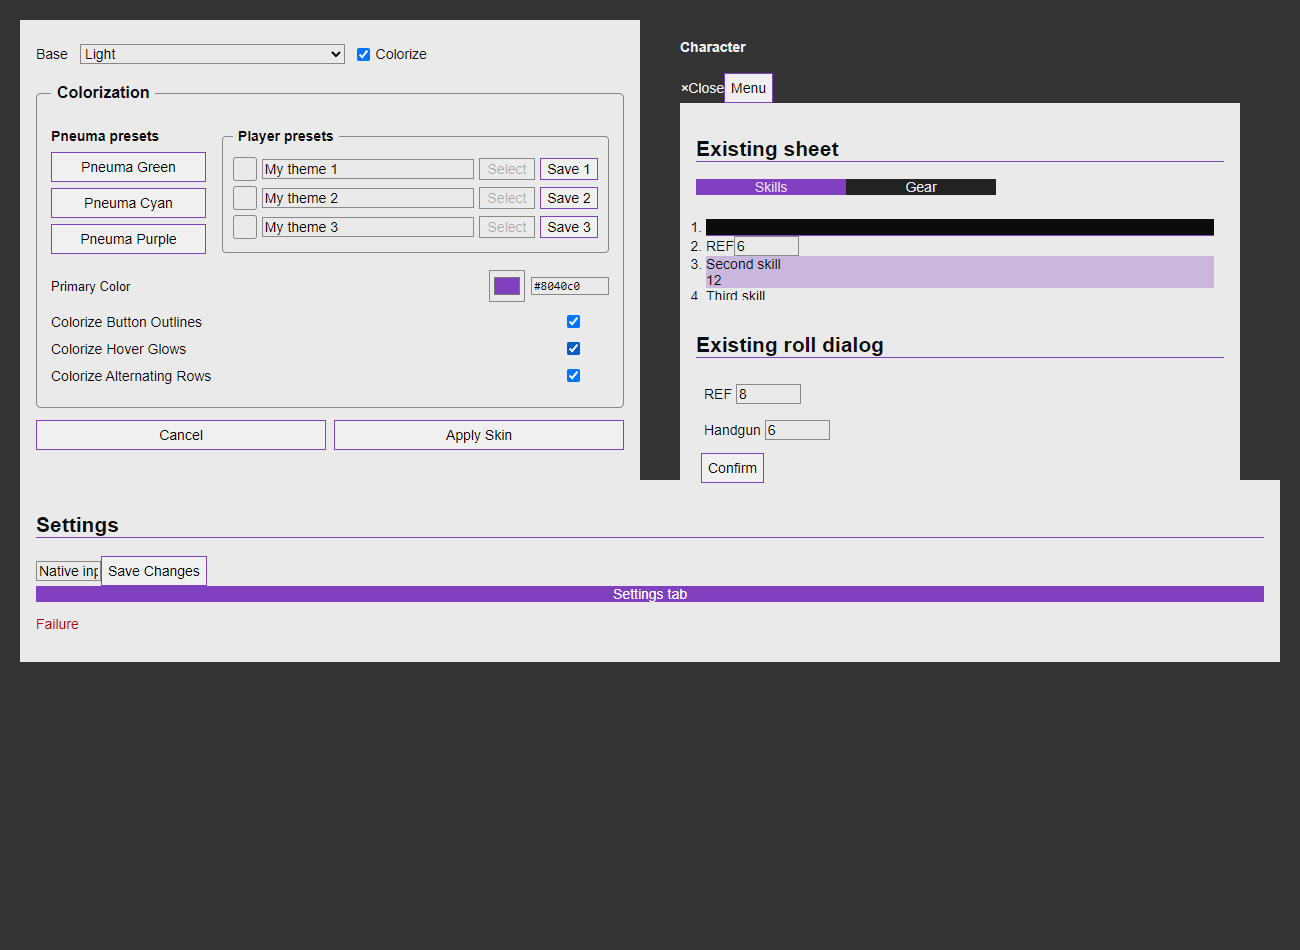
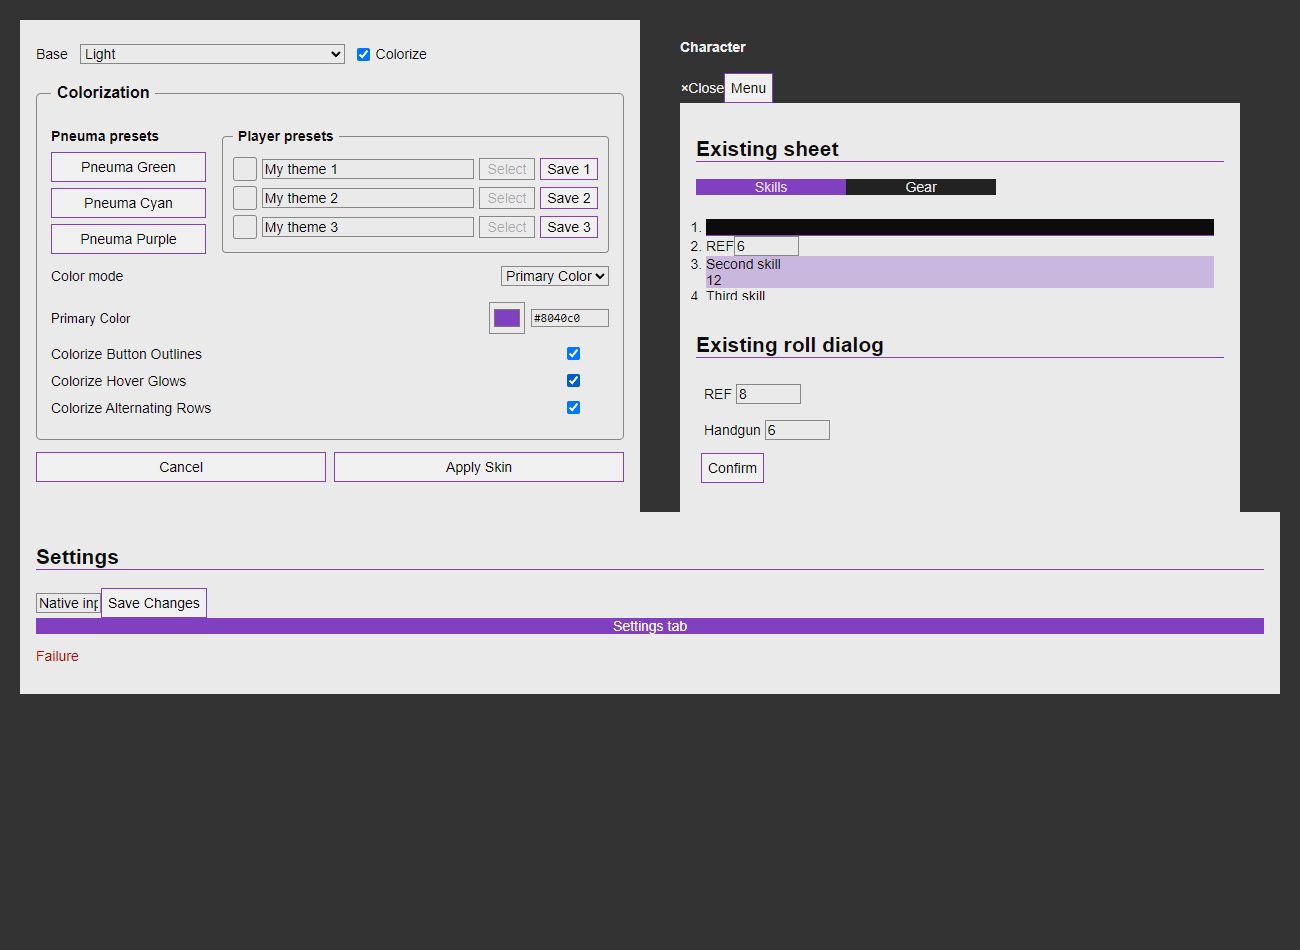
Release 0.10.1: restore independent Full Custom palettes

diff --git a/src/theme-customizer.ts b/src/theme-customizer.ts
@@ -1,5 +1,5 @@
 import {BASE_SKINS, baseMode, normalizeBase, baseVariables, adaptPalette, baseContrastWarnings} from './base-skins.js';
-import {DEFAULT_THEME, normalizeTheme, generatePalette, paletteVariables, type CustomTheme, type ThemeMode} from './theme-palette.js';
+import {COLOR_ROLES, DEFAULT_THEME, normalizeTheme, generatePalette, paletteVariables, type CustomTheme, type ThemeMode} from './theme-palette.js';
 import {PNEUMA_PRESETS,normalizePersonalPresets,type ThemePreset} from './theme-presets.js';
 declare global {interface SettingConfig {'pneuma-visualtools.customTheme': CustomTheme; 'pneuma-visualtools.visualSkinningEnabled': boolean}}
 declare global {interface FlagConfig {User:{'pneuma-visualtools':{themePresets:(ThemePreset|null)[]}}}}
@@ -26,6 +26,7 @@ export function applyCustomTheme(): void {
     if(nativeTheme!==undefined){if(nativeTheme===null)root.removeAttribute('data-cpr-theme');else root.setAttribute('data-cpr-theme',nativeTheme);nativeTheme=undefined;}
   }
   root.classList.toggle('pvt-custom-theme',theme.enabled);
+  root.classList.toggle('pvt-full-custom',theme.enabled && theme.method==='manual');
   root.classList.toggle('pvt-tinted-rows',theme.enabled && theme.tintRows);
   root.classList.toggle('pvt-colored-buttons',theme.enabled && theme.colorizeButtons);
   const writeStyle=(id:string,css:string):void=>{
@@ -43,8 +44,8 @@ export function applyCustomTheme(): void {
   writeStyle('pvt-base-palette',baseCSS?'html[data-pvt-base] '+scope+' {'+baseCSS+'}':'');
   activeMode=effectiveThemeMode(theme);
   const effectiveBase=base??(activeMode==='dark'?'default-dark':'default-light');
-  const palette=adaptPalette(theme[activeMode],effectiveBase);
-  writeStyle('pvt-custom-palette',theme.enabled?'html.pvt-custom-theme '+scope+' {'+declarations(paletteVariables(palette,activeMode,theme.tintRows,theme.colorizeGlows))+'}':'');
+  const palette=theme.method==='manual'?theme[activeMode]:adaptPalette(generatePalette(theme.seed,activeMode),effectiveBase);
+  writeStyle('pvt-custom-palette',theme.enabled?'html.pvt-custom-theme '+scope+' {'+declarations(paletteVariables(palette,activeMode,theme.tintRows,theme.colorizeGlows,theme.method==='manual'))+'}':'');
 
 }
 export class ThemeCustomizer extends FormApplication {
@@ -66,13 +67,15 @@ export class ThemeCustomizer extends FormApplication {
       hardTheme:this.draft.base==='pneuma-hub',colorEnabled:this.draft.base!=='pneuma-hub'&&this.draft.enabled,tintRows:this.draft.tintRows,colorizeButtons:this.draft.colorizeButtons,colorizeGlows:this.draft.colorizeGlows,
       bases:BASE_SKINS.map(b=>({...b,selected:b.id===(this.draft.base??(this.editing==='dark'?'default-dark':'default-light'))})),
       modes:[{id:'light',label:'Light'},{id:'dark',label:'Dark'}].map(m=>({...m,selected:m.id===this.editing})),
-      mainAccent:this.draft.seed,
+      mainAccent:this.draft.seed,manual:this.draft.method==='manual',
+      customPalettes:(['light','dark'] as const).map(mode=>({label:mode==='light'?'Light bases':'Dark bases',colors:COLOR_ROLES.map(role=>({...role,name:`custom-${mode}-${role.key}`,value:this.draft[mode][role.key]}))})),
       legacyActive:game.modules?.get('pneuma-green-theme')?.active,
       pneumaPresets:PNEUMA_PRESETS.map((preset,index)=>({index,name:preset.name})),
-      personalPresets:normalizePersonalPresets(game.user?.getFlag(MODULE,'themePresets')).map((preset,index)=>({index,slot:index+1,name:preset?.name||`My theme ${index+1}`,empty:!preset,accent:preset?.theme.seed??'transparent'})),
+      personalPresets:normalizePersonalPresets(game.user?.getFlag(MODULE,'themePresets')).map((preset,index)=>({index,slot:index+1,name:preset?.name||`My theme ${index+1}`,empty:!preset,accent:preset?(preset.theme.method==='manual'?preset.theme[effectiveThemeMode(this.draft)].main:preset.theme.seed):'transparent'})),
     };
   }
   private readDraft(root: HTMLElement): void {
+    this.readCustom(root);
     this.draft.colorizeButtons=root.querySelector<HTMLInputElement>('[name="colorizeButtons"]')?.checked===true;
     this.draft.colorizeGlows=root.querySelector<HTMLInputElement>('[name="colorizeGlows"]')?.checked===true;
     this.draft.tintRows=root.querySelector<HTMLInputElement>('[name="tintRows"]')?.checked === true;
@@ -81,8 +84,12 @@ export class ThemeCustomizer extends FormApplication {
     const primary=root.querySelector<HTMLInputElement>('[name="main"]')?.value;
     if(primary && /^#[0-9a-f]{6}$/i.test(primary)) {
       this.draft.seed=primary.toLowerCase();
-      this.draft.light=generatePalette(this.draft.seed,'light');
-      this.draft.dark=generatePalette(this.draft.seed,'dark');
+    }
+  }
+  private readCustom(root:HTMLElement):void {
+    for(const mode of ['light','dark'] as const) for(const {key} of COLOR_ROLES) {
+      const value=root.querySelector<HTMLInputElement>(`[name="custom-${mode}-${key}"]`)?.value;
+      if(value && /^#[0-9a-f]{6}$/i.test(value))this.draft[mode][key]=value.toLowerCase();
     }
   }
   private preview(root: HTMLElement): void {
@@ -90,7 +97,8 @@ export class ThemeCustomizer extends FormApplication {
     const base=this.draft.base??(this.editing==='dark'?'default-dark':'default-light');
     if(base==='pneuma-hub'){root.querySelector<HTMLElement>('[data-status]')!.textContent='Hub uses fixed colors.';return;}
     if(!this.draft.enabled){root.querySelector<HTMLElement>('[data-status]')!.textContent='';return;}
-    const warnings=baseContrastWarnings(adaptPalette(this.draft[this.editing],base),base,this.draft.tintRows);
+    const palette=this.draft.method==='manual'?this.draft[this.editing]:adaptPalette(generatePalette(this.draft.seed,this.editing),base);
+    const warnings=baseContrastWarnings(palette,base,this.draft.tintRows);
     const status=root.querySelector<HTMLElement>('[data-status]')!;
     status.textContent=warnings.length ? `Low contrast: ${warnings.join('; ')}. Adjust these colors if text or controls are hard to read.` : '';
   }
@@ -98,13 +106,18 @@ export class ThemeCustomizer extends FormApplication {
     super.activateListeners(html);
     const root=html[0]; if (!root) return;
     this.preview(root);
+    root.querySelector<HTMLSelectElement>('[name="method"]')?.addEventListener('change',()=>{
+      this.readDraft(root);
+      this.draft.method=root.querySelector<HTMLSelectElement>('[name="method"]')!.value==='manual'?'manual':'simple';
+      this.render(false);
+    });
     root.querySelectorAll('[name="tintRows"],[name="colorizeButtons"],[name="colorizeGlows"]').forEach(input=>input.addEventListener('change',()=>{this.readDraft(root);this.preview(root);}));
     root.querySelector<HTMLInputElement>('[name="colorEnabled"]')?.addEventListener('change',()=>{this.readDraft(root);this.editing=effectiveThemeMode(this.draft);this.render(false);});
     root.querySelector<HTMLSelectElement>('[name="base"]')?.addEventListener('change',()=>{
       this.readDraft(root);this.editing=effectiveThemeMode(this.draft);this.render(false);
     });
     root.querySelectorAll<HTMLElement>('[data-pneuma-preset]').forEach(button=>button.addEventListener('click',()=>{
-      this.readDraft(root);const preset=PNEUMA_PRESETS[Number(button.dataset.pneumaPreset)];if(preset)this.loadPreset(preset.theme);
+      this.readDraft(root);const preset=PNEUMA_PRESETS[Number(button.dataset.pneumaPreset)];if(preset && this.draft.base!=='pneuma-hub'){this.draft.seed=preset.theme.seed;this.draft.method='simple';this.draft.enabled=true;this.render(false);}
     }));
     root.querySelectorAll<HTMLElement>('[data-load-preset]').forEach(button=>button.addEventListener('click',()=>{
       this.readDraft(root);const preset=normalizePersonalPresets(game.user?.getFlag(MODULE,'themePresets'))[Number(button.dataset.loadPreset)];if(preset)this.loadPreset(preset.theme);
@@ -142,12 +155,20 @@ export class ThemeCustomizer extends FormApplication {
   }
   protected override async _updateObject(_event: Event, data: Record<string,unknown>): Promise<void> {
     const next=structuredClone(this.draft);
-    if(data.colorEnabled && data.base!=='pneuma-hub') {
+    if(data.colorEnabled && data.base!=='pneuma-hub' && next.method==='simple') {
       const primary=String(data.main);
       if(!/^#[0-9a-f]{6}$/i.test(primary))throw Error('Use a six-digit hex color, such as #4d771f.');
       next.seed=primary.toLowerCase();
     }
-    next.method='simple';
+    if(next.method==='manual' && data.colorEnabled && data.base!=='pneuma-hub') {
+      for(const mode of ['light','dark'] as const) for(const {key} of COLOR_ROLES) {
+        const value=data[`custom-${mode}-${key}`];
+        if(typeof value==='string') {
+          if(!/^#[0-9a-f]{6}$/i.test(value))throw Error('Use six-digit hex colors.');
+          next[mode][key]=value.toLowerCase();
+        }
+      }
+    }
     // Base and colorization are saved independently.
     next.enabled=Boolean(data.colorEnabled);
     if(data.colorEnabled && data.base!=='pneuma-hub'){next.tintRows=Boolean(data.tintRows);next.colorizeButtons=Boolean(data.colorizeButtons);next.colorizeGlows=Boolean(data.colorizeGlows);}

diff --git a/src/theme-palette.ts b/src/theme-palette.ts
@@ -1,5 +1,10 @@
 import {normalizeBase, type BaseSkin} from './base-skins.js';
 export const COLOR_ROLES = [
+  {key: 'headerText', label: 'Section heading text', hint: 'Section titles and column labels'},
+  {key: 'headerBackground', label: 'Section heading background', hint: 'Header strips'},
+  {key: 'badgeBackground', label: 'Stat badge background', hint: 'Skill stat abbreviations'},
+  {key: 'badgeText', label: 'Stat badge text', hint: 'Text inside skill stat badges'},
+  {key: 'inactiveTabText', label: 'Inactive tab text', hint: 'Unselected sheet tabs'},
   {key: 'deep', label: 'Deep accent', hint: 'Highlighted icons'},
   {key: 'main', label: 'Main accent', hint: 'Active tabs and accent borders'},
   {key: 'middle', label: 'Middle accent', hint: 'Hover and interaction accents'},
@@ -15,8 +20,8 @@ export type ThemeMode = 'light' | 'dark';
 export type CustomTheme = {base: BaseSkin | null; enabled: boolean; tintRows: boolean; colorizeButtons: boolean; colorizeGlows: boolean; mode: ThemeMode | 'automatic'; method:'simple'|'manual'; seed:string; light: Palette; dark: Palette};
 export const DEFAULT_THEME: CustomTheme = {
   base: null, enabled: false, tintRows: false, colorizeButtons: true, colorizeGlows: true, mode: 'automatic', method:'simple',seed:'#4d771f',
-  light: {deep:'#263f0e',main:'#4d771f',middle:'#5f9028',bright:'#92d050',pale:'#b5ffa1',name:'#365a18',odd:'#d9e7cc',even:'#edf4e7'},
-  dark: {deep:'#a9cf86',main:'#456b2a',middle:'#557c35',bright:'#78a84f',pale:'#9dcc7c',name:'#9dcc7c',odd:'#20271d',even:'#293126'},
+  light: {headerText:'#ffffff',headerBackground:'#0d0b0c',badgeBackground:'#202020',badgeText:'#ffffff',inactiveTabText:'#ffffff',deep:'#263f0e',main:'#4d771f',middle:'#5f9028',bright:'#92d050',pale:'#b5ffa1',name:'#365a18',odd:'#d9e7cc',even:'#edf4e7'},
+  dark: {headerText:'#e8e8e8',headerBackground:'#181818',badgeBackground:'#181818',badgeText:'#e8e8e8',inactiveTabText:'#e8e8e8',deep:'#a9cf86',main:'#456b2a',middle:'#557c35',bright:'#78a84f',pale:'#9dcc7c',name:'#9dcc7c',odd:'#20271d',even:'#293126'},
 };
 export const NEUTRALS = {
   light: {surface0:'#ffffff',surface1:'#eeeeee',surface2:'#dddddd',surface3:'#cccccc',chat:'#c0c0c0',border:'#888888',text:'#222222',strong:'#111111',inactive:'#202020'},
@@ -31,14 +36,14 @@ export function normalizeTheme(value: unknown): CustomTheme {
   result.colorizeButtons = v.colorizeButtons !== false;
   result.colorizeGlows = v.colorizeGlows !== false;
   result.mode = v.mode === 'light' || v.mode === 'dark' ? v.mode : 'automatic';
-  result.method='simple';
+  result.method=v.method==='manual'?'manual':'simple';
   const valid=(color:unknown):color is string=>typeof color==='string' && /^#[0-9a-f]{6}$/i.test(color);
-  // Migrate manual palettes to their primary color; keep presets usable.
-  const legacyMain=v.mode==='dark'||v.base==='default-dark'||v.base==='pneuma-dark'?v.dark?.main:v.light?.main;
-  const primary=v.method==='manual'&&valid(legacyMain)?legacyMain:v.seed;
-  if(valid(primary))result.seed=primary.toLowerCase();
-  result.light=generatePalette(result.seed,'light');
-  result.dark=generatePalette(result.seed,'dark');
+  if(valid(v.seed))result.seed=v.seed.toLowerCase();
+  // Independent custom palettes are retained even while Primary Color is active.
+  for(const mode of ['light','dark'] as const) for(const {key} of COLOR_ROLES) {
+    const color=v[mode]?.[key];
+    if(valid(color))result[mode][key]=color.toLowerCase();
+  }
   return result;
 }
 export function contrast(a: string, b: string): number {
@@ -86,10 +91,10 @@ export function generatePalette(seed: string, mode: ThemeMode): Palette {
 }
 /** Override explicit accent roles only. CPR base colors also feed surfaces,
  * ordinary text and semantic success/failure indicators, so leave them native. */
-export function paletteVariables(p: Palette, _mode: ThemeMode, tintRows = false, colorizeGlows = true): Record<string,string> {
+export function paletteVariables(p: Palette, _mode: ThemeMode, tintRows = false, colorizeGlows = true, manual = false): Record<string,string> {
   const vars:Record<string,string> = {
     '--pvt-custom-main':p.main, '--pvt-custom-name':p.name,
-    '--pvt-custom-on-main':onColor(p.main),
+    '--pvt-custom-on-main':manual?p.pale:onColor(p.main),
   };
   // Rebind accent aliases at their declaration scope, leaving neutral roles alone.
   const groups:[string,string[]][] = [
@@ -99,11 +104,16 @@ export function paletteVariables(p: Palette, _mode: ThemeMode, tintRows = false,
     [p.bright,['background-tab-underlay']],
     [p.pale,['text-tab-highlight']],
   ];
-  if(colorizeGlows){
-    vars['--color-shadow-primary']=p.main;vars['--color-shadow-highlight']=p.main;
-    vars['--cpr-background-foundry-hover']=p.main;
+  if(manual) {
+    groups.push([p.headerText,['text-header']], [p.headerBackground,['background-header','background-cyberdeck-section-header']],
+      [p.badgeBackground,['background-pill']], [p.badgeText,['text-pill']], [p.inactiveTabText,['text-tab-normal']]);
+    vars['--pvt-custom-badge-text']=p.badgeText;
   }
-  if (tintRows) groups.push([p.odd,['background-row-odd']]);
+  if(colorizeGlows){
+    vars['--color-shadow-primary']=manual?p.middle:p.main;vars['--color-shadow-highlight']=manual?p.middle:p.main;
+    vars['--cpr-background-foundry-hover']=manual?p.middle:p.main;
+  }
+  if (tintRows) {groups.push([p.odd,['background-row-odd']]);if(manual)groups.push([p.even,['background-row-even']]);}
   for(const [value,keys] of groups) for(const key of keys) vars['--cpr-'+key]=value;
   return vars;
 }

diff --git a/src/theme-customizer.css b/src/theme-customizer.css
@@ -184,3 +184,11 @@ html[data-pvt-base="pneuma-light"] :is(.window-app,.application) .window-header 
 #pvt-theme-customizer .pvt-skin-controls select {width:100%;min-width:0;}
 #pvt-theme-customizer .pvt-colorize-toggle {display:flex;align-items:center;gap:6px;white-space:nowrap;}
 #pvt-theme-customizer .pvt-colorize-toggle input {flex:0 0 auto;width:auto;margin:0;}
+
+/* Full Custom owns badge foregrounds independently from diagonal accents. */
+html.pvt-custom-theme.pvt-full-custom:is([data-pvt-base],:root) .sheet .skills-tab .text-pill {color:var(--pvt-custom-badge-text);}
+#pvt-theme-customizer .pvt-advanced summary {cursor:pointer;margin:10px 0;font-weight:600;}
+#pvt-theme-customizer .pvt-advanced .pvt-theme-color {margin:6px 0;}
+#pvt-theme-customizer .pvt-custom-palettes {display:grid;grid-template-columns:repeat(2,minmax(0,1fr));gap:12px;}
+#pvt-theme-customizer .pvt-custom-palettes > fieldset {min-width:0;margin:0;padding:8px;}
+#pvt-theme-customizer .pvt-custom-palettes .pvt-theme-color {grid-template-columns:minmax(0,1fr) 28px 72px;gap:4px;}

diff --git a/IMPLEMENTED_FEATURES.md b/IMPLEMENTED_FEATURES.md
@@ -472,3 +472,6 @@ Hub section headers set the native --cpr-background-header variable locally so C
 Visual Skinning now has an Enable visual skinning master switch (visualSkinningEnabled) controlling both base and colorization, including fixed Hub. Off restores native styling while preserving the saved theme and presets; on restores both layers. Initial default reflects an existing base or enabled palette instead of inheriting the obsolete colorization-only checkbox. Applying a skin enables the master. Browser tests cover off/on restoration, saved-value preservation and Hub remaining free of custom colorization.
 
 The visual-skinning Base dropdown occupies 45% of its control row, keeping the adjacent Colorize checkbox near the center instead of the far edge.
+
+Full Custom colorization: a separate mode with collapsible Advanced controls and independent Light/Dark palettes. All saved palette fields and Primary Color are retained across mode changes, Apply, Cancel and player presets. Full Custom applies exact colors without primary generation or contrast fitting; primary mode generates its palette from the seed at render time. Independent controls include section heading text/background, skill badge fill/text, inactive tab text, main/interaction/icon/diagonal/tab-text/chat accents and both alternating rows. Optional row/glow/button switches still apply. Built-in presets change Primary Color without replacing custom palettes. Hub remains fixed and disables all color editing. Browser checks cover a yellow-frame/cyan-heading/cyan-badge example and mode/preset round trips.
+Full Custom displays Light and Dark palette fields side by side in compact equal-width columns.

diff --git a/CHANGELOG.md b/CHANGELOG.md
@@ -1,5 +1,14 @@
 # Changelog
 
+## 0.10.1 - 2026-10-26
+
+- Restore independent Full Custom colorization alongside Primary Color mode, with collapsible Advanced controls and side-by-side Light/Dark palettes.
+- Save both configurations and the active mode in themes and player presets. Changing Primary Color or selecting built-in presets preserves custom palettes.
+- Add exact controls for section headings, stat badge fill/text, inactive tabs, accent colors and alternating rows; Full Custom does not regenerate or automatically adjust entered colors.
+- Keep Pneuma Hub fixed and non-customizable.
+
+Validation: strict TypeScript/module build, theme/settings browser checks, and custom-palette Apply/Cancel and preset round trips. Live Foundry multiplayer validation remains pending.
+
 ## 0.10.0 - 2026-10-26
 
 - Separate base appearance from colorization with Dark, Light, Pneuma Dark, Pneuma Light and fixed Pneuma Hub skins.
